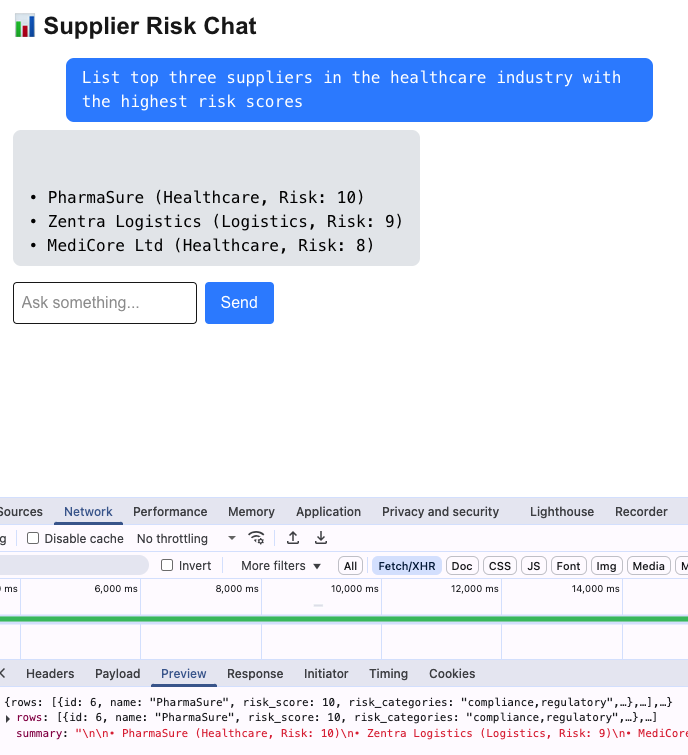
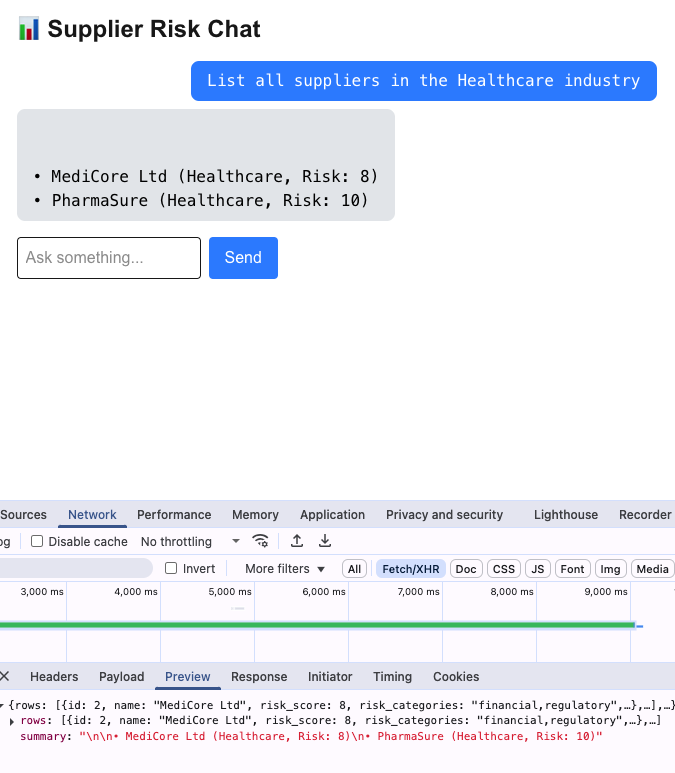
Generated query message added

Changed region(s): [[0.0, 0.6397, 1.0, 0.9748], [0.0, 0.0, 0.9956, 0.4265], [0.0311, 0.396, 0.1867, 0.4265]]

diff --git a/README.md b/README.md
@@ -129,13 +129,23 @@ npm run dev
 
 ## Screenshots
 
-**Predefined query routing**
-
-![Predefined query routing](./images/predefined_query.png)
-
-**LLM-generated SQL**
+### Approach 1. LLM-generated SQL
 
 ![LLM-generated SQL](./images/generated_query.png)
+
+**Generated query**
+
+```json
+{
+  "sql": "SELECT * FROM suppliers WHERE industry = ? ORDER BY risk_score DESC LIMIT 3",
+  "params": ["Healthcare"],
+  "summary": "Returns the top three high-risk suppliers in the healthcare sector."
+}
+```
+
+### Approach 2. Predefined query routing
+
+![Predefined query routing](./images/predefined_query.png)
 
 ---
 
